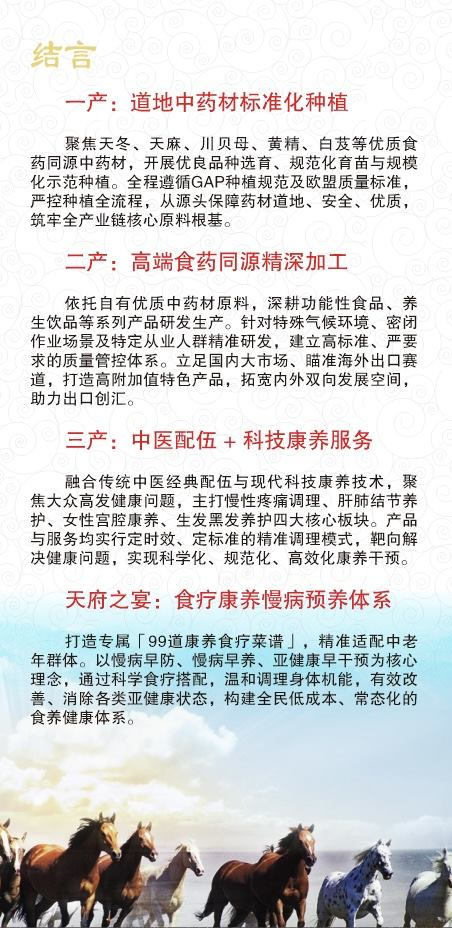
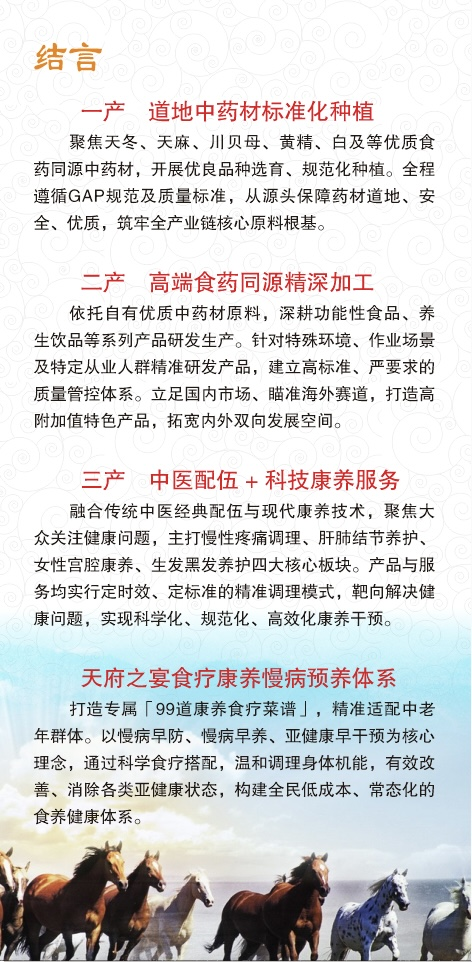
feat: 完善邀请函内容区与结尾视觉

diff --git a/index.html b/index.html
@@ -71,17 +71,17 @@
       <div class="section-shell">
         <div class="brand-frame">
           <div class="brand-copy">
-            <h3>从产品到合作的闭环能力</h3>
+            <h3>产品到合作的闭环能力</h3>
             <p>项目面向医药、健康食品、康养服务与文旅消费等多端市场，既关注产品转化效率，也强调品质公信力与合作落地能力。</p>
             <div class="overview-switcher market-switcher" id="marketSwitcher">
               <div class="overview-tabs" aria-label="市场转化与合作保障切换">
-                <button type="button" class="overview-tab is-active" onclick="setSwitcherPanel('market', '布局饮片、功能健康食品、特色食饮和康养体验，增强从原料端到消费端的转化深度。', this)">产品矩阵</button>
-                <button type="button" class="overview-tab" onclick="setSwitcherPanel('market', '覆盖医药渠道、康养机构、礼赠场景、文旅场景和线上消费市场，提升品牌触达效率。', this)">渠道拓展</button>
+                <button type="button" class="overview-tab is-active" onclick="setSwitcherPanel('market', '布局饮片、功能健康食品、特色食饮和康养体验，增强原料端到消费端的转化深度。', this)">产品矩阵</button>
+                <button type="button" class="overview-tab" onclick="setSwitcherPanel('market', '覆盖医药渠道、康养机构、礼赠、文旅场景和线上消费市场，提升品牌触达效率。', this)">渠道拓展</button>
                 <button type="button" class="overview-tab" onclick="setSwitcherPanel('market', '通过标准化种植、精深加工和全程溯源强化品质表达，让合作与消费更容易建立信任。', this)">品质公信</button>
                 <button type="button" class="overview-tab" onclick="setSwitcherPanel('market', '项目贴合中医药创新、乡村振兴与健康产业导向，兼具产业价值、社会价值和区域协同空间。', this)">政企协同</button>
               </div>
               <article class="overview-panel">
-                <p class="overview-panel-copy" id="marketPanelCopy">布局饮片、功能健康食品、特色食饮和康养体验，增强从原料端到消费端的转化深度。</p>
+                <p class="overview-panel-copy" id="marketPanelCopy">布局饮片、功能健康食品、特色食饮和康养体验，增强原料端到消费端的转化深度。</p>
               </article>
             </div>
           </div>
@@ -89,6 +89,9 @@
             <img src="industry-chain.jpg" alt="食药同源产业链与市场路径" class="full-image framed inset-image" loading="lazy" decoding="async" />
             <figcaption>让原料、加工、品牌和消费服务形成连续的市场转化路径。</figcaption>
           </figure>
+        </div>
+        <div class="visual-panel market-closing-panel">
+          <img src="closing-visual.jpg" alt="项目结言" class="full-image framed inset-image" loading="lazy" decoding="async" />
         </div>
       </div>
     </section>
@@ -157,24 +160,32 @@
       <img src="1.jpg" alt="公司介绍" class="full-image framed" loading="lazy" decoding="async" />
       <div class="accordion-wrap">
         <details>
-          <summary>标准化产业底盘</summary>
-          <p>公司围绕姚安项目推进标准化种植示范区、良种繁育基地和产地加工体系建设，聚焦川滇特色药食资源，夯实规模化、规范化、品牌化发展的基础。</p>
+          <summary>产业固本拓基，标准赋能百亿赛道</summary>
+          <p>公司精准锚定云南姚安布局核心产业，固化天冬标准化种植示范区与良种繁育基地建设规模，筑牢道地药材规模化、规范化、产业化发展根基。聚焦天冬、天麻、余甘子、黄精、川贝母、何首乌、白及等川滇特色优势食药资源，开展优良种质选育、栽培技术革新与丰产体系优化，实现核心品种产能与综合效益提升。公司全力服务国家级中医药产业创新示范区创建，为姚安打造百亿级中药材产业集群夯实核心底盘。始终秉持高标准建设、高品质管控、高水平运营理念，全面推进中药材GAP与欧盟标准双认证，以国内权威集采资质、国际出口品质背书，双向打通国内高端医药市场与海外渠道，构建标准化、品牌化、国际化的现代中药产业体系。</p>
         </details>
         <details>
-          <summary>科创与数智能力</summary>
-          <p>公司以智慧种植平台、生物技术、非遗炮制与现代康养研发为抓手，持续提升种植效率、产品开发能力和产业协同水平。</p>
+          <summary>科创跨界融合，科技赋能康养</summary>
+          <p>公司深耕食药科创与现代康养融合创新，依托自有高端康养品牌应草堂，实现传统中医药配伍智慧与石墨烯等现代康养科技双向赋能，深度耦合。紧扣慢病防治与中老年健康刚需，针对慢性疼痛、肝肺结节、妇科养护、肛肠调理、育发黑发等重点康养领域，构建定时量化、精准对症、系统可控的科学化康养解决方案，推动传统中医药养生由经验化向标准化、精准化、现代化全面转型。依托民生普惠品牌“天府之宴”聚焦慢病调理、损伤修复、体质滋养三大核心方向，匠心打造99道食药同源养生标准化菜品体系，让高端药食科技惠及民生，真正实现产业利民、科创惠民。</p>
         </details>
         <details>
-          <summary>产品与市场布局</summary>
-          <p>围绕功能健康食品、特色康养产品和多元消费场景进行产品矩阵规划，并同步拓展国内大健康细分市场与国际合作空间。</p>
+          <summary>数智转型升级，重塑现代农业范式</summary>
+          <p>针对传统中药材种植用工密集、成本偏高、标准化薄弱的行业痛点，公司自主搭建中医药种植信息化智慧管控体系，全面落地种植全流程机械化、信息化、智能化赋能，以智能科技替代约80%传统人工劳作，大幅降低生产风险、规范种植标准、提升产业效能，打造西南地区智慧化、数字化、现代化中药材种植标杆样板。</p>
         </details>
         <details>
-          <summary>产学研与团队支撑</summary>
-          <p>公司联合高校、科研院所与专业团队推动技术攻关和成果转化，形成从科研到产业落地相互衔接的创新机制。</p>
+          <summary>智聚高端智库，产学研一体强芯赋能</summary>
+          <p>公司坚持人才为第一资源、科创为第一动力，深度聚合四川大学、成都中医药大学、四川省中医科学院、成都大学、成都市农林科学院、四川农业大学等多家省内顶尖高校与科研院所智力资源，组建近百人核心科研团队。构建一二三产深度联动、产学研用闭环融合的创新发展机制，实现科研攻关、技术迭代、成果转化、产业落地无缝衔接，以顶尖人才队伍夯实产业创新核心竞争力，以硬核科研实力支撑企业高质量、可持续发展。</p>
         </details>
         <details>
-          <summary>社会责任与未来方向</summary>
-          <p>公司坚持把产业发展与乡村振兴、民生就业和区域协同结合起来，持续探索更具示范效应的食药同源产业发展路径。</p>
+          <summary>精准场景布局，构筑多元市场矩阵</summary>
+          <p>立足川滇独特生态禀赋、立体气候与优质种养环境，聚焦特殊作业场景、专属从业群体、特色细分渠道，定向研发落地系列化功能性产品、特色康养饮品，打造差异化、场景化、专业化的高端药食产品矩阵。依托严苛的双标品质体系与科创核心优势，双向深耕国内大健康细分市场与国际出口市场，持续拓宽产业边界、提升品牌势能、增强行业话语权。</p>
+        </details>
+        <details>
+          <summary>党建领航聚力，勇担富民兴企使命</summary>
+          <p>公司始终坚持党建引领发展大局，将政治担当、社会责任、民生福祉深度融入企业发展全过程。专项搭建退役军人就业创业赋能平台，全方位提供岗位安置、技能培育、产业赋能、创业帮扶，助力退役军人转型建功、再启新程。坚持以产业带动增收、以发展共享红利，通过基地规模化运营、属地务工吸纳、技术普惠帮扶、产业分红联动等多元模式，持续带动地方群众稳就业、增收入、共发展，扎实赋能乡村振兴，助力实现共同富裕。</p>
+        </details>
+        <details>
+          <summary>展望未来，谱写发展新篇章</summary>
+          <p>展望未来，四川玄元青青农业科技有限责任公司将始终坚守国家战略导向、深耕药食科创主业、厚植民生担当情怀、凝聚实干奋进力量，以高远战略格局、顶尖科创实力、标准产业体系、硬核实干团队，持续引领西南食药同源与中医药产业创新升级，为区域产业高质量发展、乡村全面振兴、国民健康事业持续贡献新动能、谱写新篇章。</p>
         </details>
       </div>
       <div class="company-signoff">

diff --git a/styles.css b/styles.css
@@ -103,6 +103,11 @@ body {
   padding: 14px 14px 16px;
 }
 
+.matrix-page .section-shell,
+.market-page .section-shell {
+  padding-top: 8px;
+}
+
 .section-kicker {
   margin: 0 0 8px;
   color: var(--green-800);
@@ -187,8 +192,8 @@ body {
 }
 
 .overview-panel {
-  padding: 14px 16px;
-  border-radius: 18px;
+  padding: 10px 12px;
+  border-radius: 16px;
   background: linear-gradient(180deg, rgba(255, 255, 255, 0.98), rgba(240, 249, 244, 0.96));
   border: 1px solid rgba(33, 93, 68, 0.1);
   box-shadow: 0 10px 24px rgba(18, 69, 52, 0.08);
@@ -332,7 +337,7 @@ body {
 }
 
 .capability-switcher .overview-panel {
-  padding: 12px 14px;
+  padding: 10px 12px;
 }
 
 .feature-list {
@@ -443,6 +448,11 @@ body {
     radial-gradient(circle at top right, rgba(214, 180, 106, 0.16), transparent 34%),
     linear-gradient(180deg, rgba(255, 255, 255, 0.98), rgba(238, 247, 242, 0.96));
   border: 1px solid rgba(18, 72, 54, 0.1);
+}
+
+.market-closing-panel {
+  max-width: 460px;
+  margin: 12px auto 0;
 }
 
 .fold-grid {
@@ -570,6 +580,18 @@ body {
     linear-gradient(180deg, #f9fdfb 0%, #eef7f1 100%);
 }
 
+#main-content .accordion-wrap {
+  padding-bottom: 0;
+}
+
+#main-content .accordion-wrap details:last-child {
+  margin-bottom: 0;
+}
+
+#main-content .company-signoff {
+  padding-top: 4px;
+}
+
 .yaoan-art-title {
   display: block;
   width: min(100%, 860px);
@@ -587,8 +609,10 @@ details {
 }
 
 summary {
+  display: block;
   cursor: pointer;
   font-weight: 700;
+  line-height: 1.45;
   color: var(--green-900);
 }
 
@@ -606,7 +630,13 @@ details p {
 }
 
 .invite-shell {
-  padding-bottom: 2px;
+  padding-top: 6px;
+  padding-bottom: 0;
+}
+
+.invite-shell .section-kicker {
+  margin-bottom: 0;
+  text-align: center;
 }
 
 .invite-summary {
@@ -648,12 +678,18 @@ details p {
 }
 
 .invite-actions {
-  padding: 10px 14px 14px;
+  padding: 6px 14px 8px;
   display: flex;
   align-items: center;
-  justify-content: space-between;
+  justify-content: center;
   gap: 12px;
   background: linear-gradient(180deg, #f7fbf9, #eef7f2);
+}
+
+.invite-actions p {
+  width: 100%;
+  text-align: center;
+  line-height: 1.45;
 }
 
 .primary-link {
@@ -713,10 +749,14 @@ details p {
 }
 
 .form-tip {
-  min-height: 22px;
+  display: none;
   margin: 2px 0 0;
   color: #245d45;
   font-size: 14px;
+}
+
+.form-tip:not(:empty) {
+  display: block;
 }
 
 .zoom-in.visible {
@@ -887,9 +927,19 @@ details p {
     padding: 12px 10px 12px;
   }
 
+  .matrix-page .section-shell,
+  .market-page .section-shell {
+    padding-top: 6px;
+  }
+
   .section-kicker {
     font-size: 12px;
     letter-spacing: 0.08em;
+  }
+
+  .invite-shell {
+    padding-top: 5px;
+    padding-bottom: 0;
   }
 
   .metric-card,
@@ -946,7 +996,7 @@ details p {
   }
 
   .overview-panel {
-    padding: 12px;
+    padding: 9px 10px;
     border-radius: 16px;
   }
 
@@ -959,7 +1009,7 @@ details p {
   }
 
   .capability-switcher .overview-panel {
-    padding: 10px 12px;
+    padding: 8px 10px;
   }
 
   .trust-grid .fold-head {
@@ -980,7 +1030,7 @@ details p {
   }
 
   .invite-actions {
-    padding: 10px 10px 14px;
+    padding: 6px 10px 8px;
   }
 
   .primary-link {
@@ -995,6 +1045,10 @@ details p {
 
   .company-signoff {
     padding: 14px 8px 20px;
+  }
+
+  #main-content .company-signoff {
+    padding-top: 2px;
   }
 
   .yaoan-art-title {
